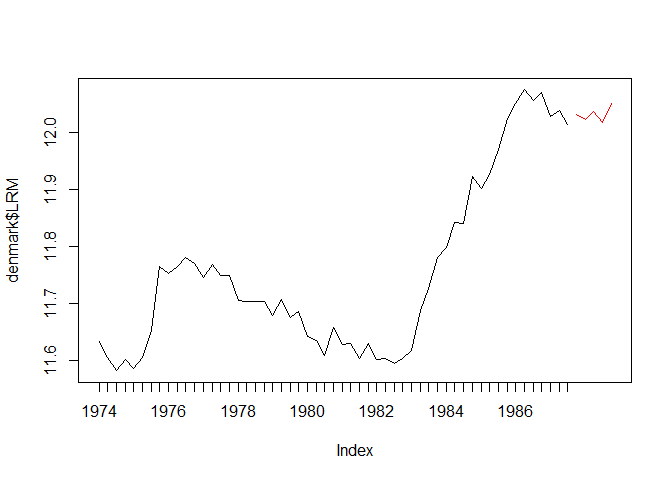
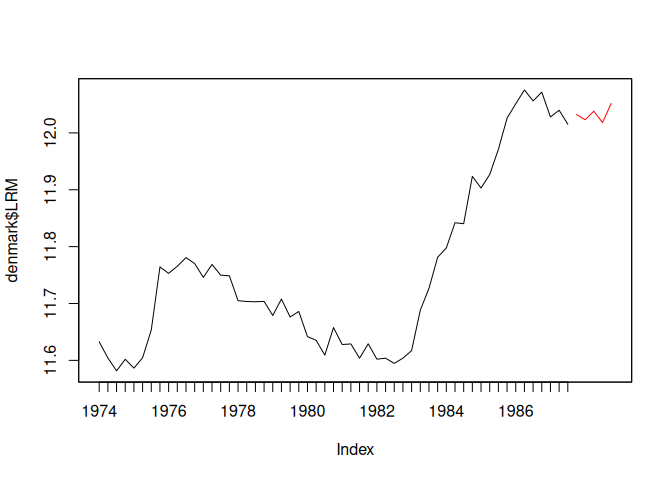
Fixes #29 - Using .rds zooreg objects in bounds_f_test() in a new R session was producing an error

diff --git a/README.md b/README.md
@@ -279,7 +279,7 @@ mult15 <- multipliers(ardl_3132, type = 15, se = TRUE)
 plot_delay(mult15, interval = 0.95)
 ```
 
-<img src="man/figures/README-delay-multipliers-1.png" width="100%" />
+<img src="man/figures/README-delay-multipliers-1.png" alt="" width="100%" />
 
 Now let’s graphically check the estimated long-run relationship
 (cointegrating equation) against the dependent variable `LRM`.
@@ -292,7 +292,7 @@ ce <- coint_eq(ardl_3132, case = 2)
 plot_lr(ardl_3132, coint_eq = ce, show.legend = TRUE)
 ```
 
-<img src="man/figures/README-lr-plot-1.png" width="100%" />
+<img src="man/figures/README-lr-plot-1.png" alt="" width="100%" />
 
 Forecasting using an `ardl` model is simple with the `predict()`
 function, which dispatches to `predict.ardl()`, a method created
@@ -301,7 +301,6 @@ specifically for these models in this package.
 ``` r
 #load zoo to create the zoo dataset
 library(zoo)
-#> Warning: package 'zoo' was built under R version 4.4.3
 #> 
 #> Attaching package: 'zoo'
 #> The following objects are masked from 'package:base':
@@ -320,7 +319,7 @@ plot(denmark$LRM, xlim = c(start(denmark), end(predicted_values)))
 lines(predicted_values, col = "red")
 ```
 
-<img src="man/figures/README-Predict-ardl-1.png" width="100%" />
+<img src="man/figures/README-Predict-ardl-1.png" alt="" width="100%" />
 
 ## Ease of use
 
@@ -338,7 +337,6 @@ transformation to behave like time-series)*
 
 ``` r
 library(dynlm)
-#> Warning: package 'dynlm' was built under R version 4.4.3
 
 dynlm_ardl_model <- dynlm(LRM ~ L(LRM, 1) + L(LRM, 2) + L(LRM, 3) + LRY + L(LRY, 1) +
                            IBO + L(IBO, 1) + L(IBO, 2) + L(IBO, 3) +

diff --git a/NEWS.md b/NEWS.md
@@ -6,6 +6,11 @@
 multipliers were calculated based on the `ardl` structure but using the uecm's
 vcov.
 
+* Reading a `zooreg` object saved as .rds and using it in `bounds_f_test()` in a
+fresh R session, was producing an error when no other related function had ran
+in this session. Running it a second time was working.
+(issue #29)
+
 ---
 
 # ARDL 0.2.5
